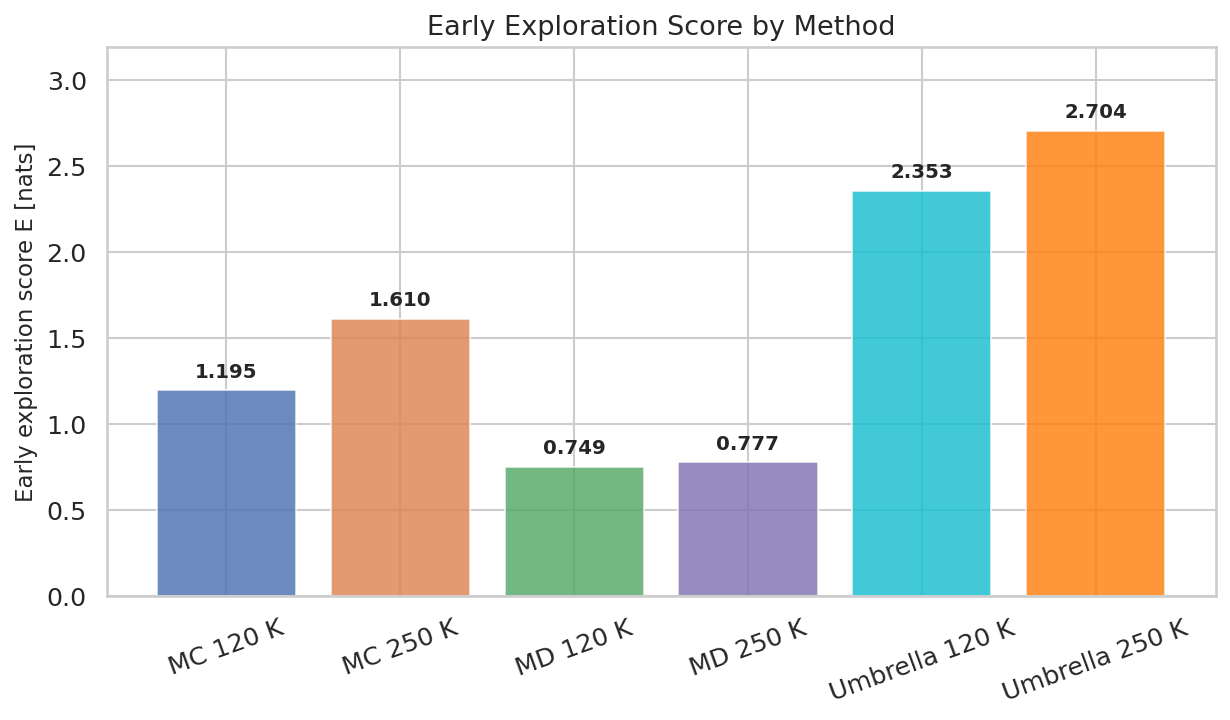
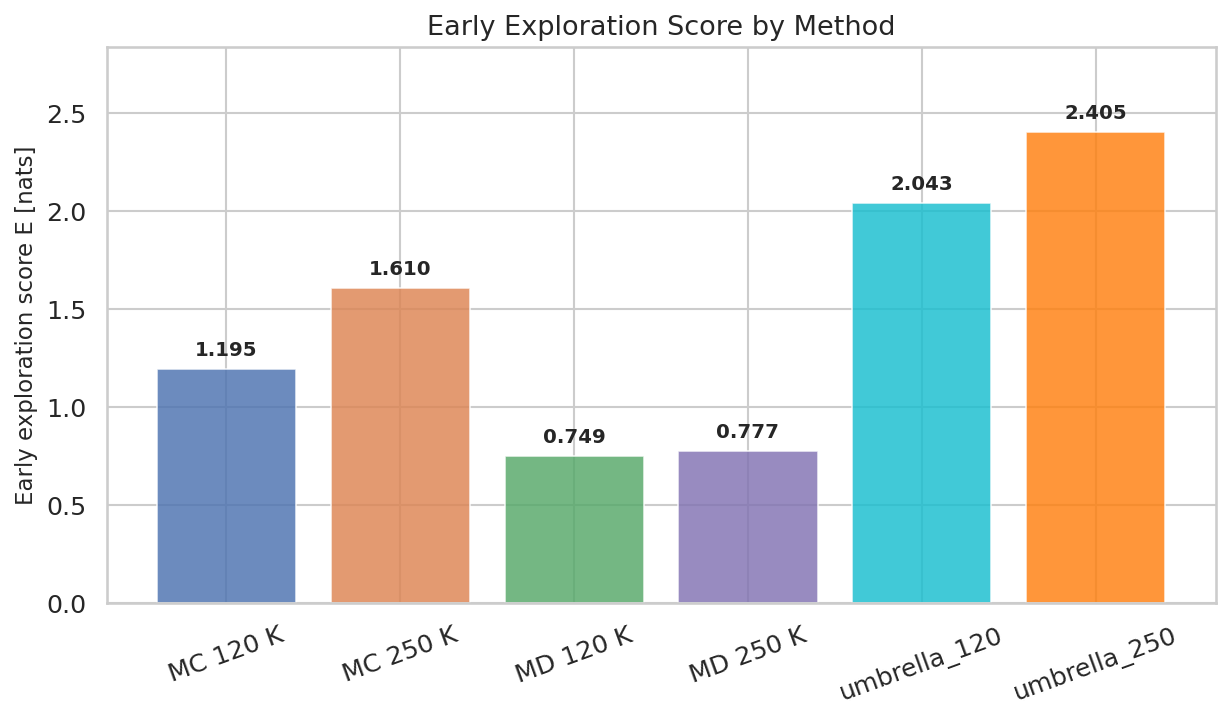
oopsie daisy

diff --git a/scripts/run_baseline.py b/scripts/run_baseline.py
@@ -109,14 +109,16 @@ def main():
     for T, tag in zip(T_LIST, ["120K", "250K"]):
         us_files = sorted(TRAJ_DIR.glob(f"us_window_{tag}_*.npy"))
         if us_files:
-            pooled = np.concatenate([np.load(f) for f in us_files])
-            rng2 = np.random.default_rng(0)
-            idx2 = rng2.choice(len(pooled), size=N_STEPS, replace=False)
-            us_traj = pooled[idx2]
+            key = f"umbrella_{int(round(T))}"
+            n_win = len(us_files)
+            steps_per_win = N_STEPS // n_win
+            segments = [np.load(f)[:steps_per_win] for f in us_files]
+            us_traj = np.concatenate(segments)
+
             E_us = early_exploration_score(us_traj, N_BINS)
-            label = f"Umbrella {int(round(T))} K"
+            label = LABELS_SCORE.get(key, key)
             early_scores[label] = E_us
-            print(f"  umbrella_{int(round(T))}: early_score={E_us:.4f}")
+            print(f"  {key}: early_score={E_us:.4f}")
 
     plot_early_exploration_bar(
         early_scores,

diff --git a/report/main.tex b/report/main.tex
@@ -643,8 +643,8 @@ Baseline MC     & 120 & 1.195 & $\approx$1.23 \\
 Baseline MC     & 250 & 1.610 & $\approx$1.61 \\
 Baseline MD     & 120 & 0.749 & $\approx$0.76  \\
 Baseline MD     & 250 & 0.777 & $\approx$0.80 \\
-Umbrella (WHAM) & 120 & 2.358 & $\approx$2.36 \\
-Umbrella (WHAM) & 250 & 2.702 & $\approx$2.70 \\
+Umbrella (WHAM) & 120 & 2.043 & $\approx$2.36 \\
+Umbrella (WHAM) & 250 & 2.405 & $\approx$2.70 \\
 \bottomrule
 \end{tabular}
 \end{table}
